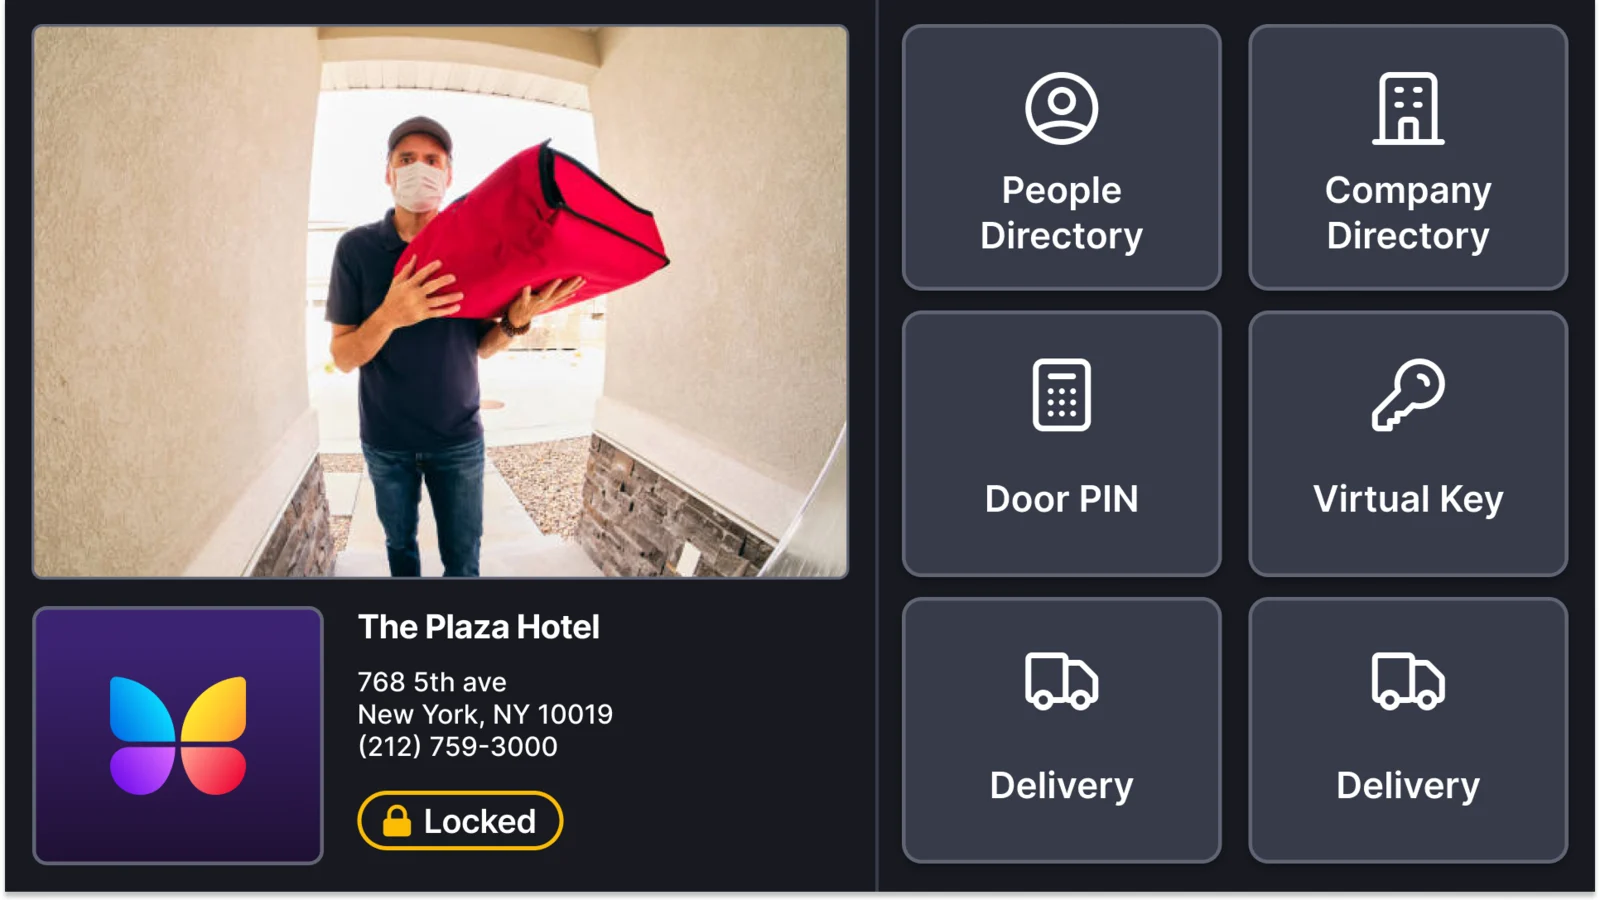
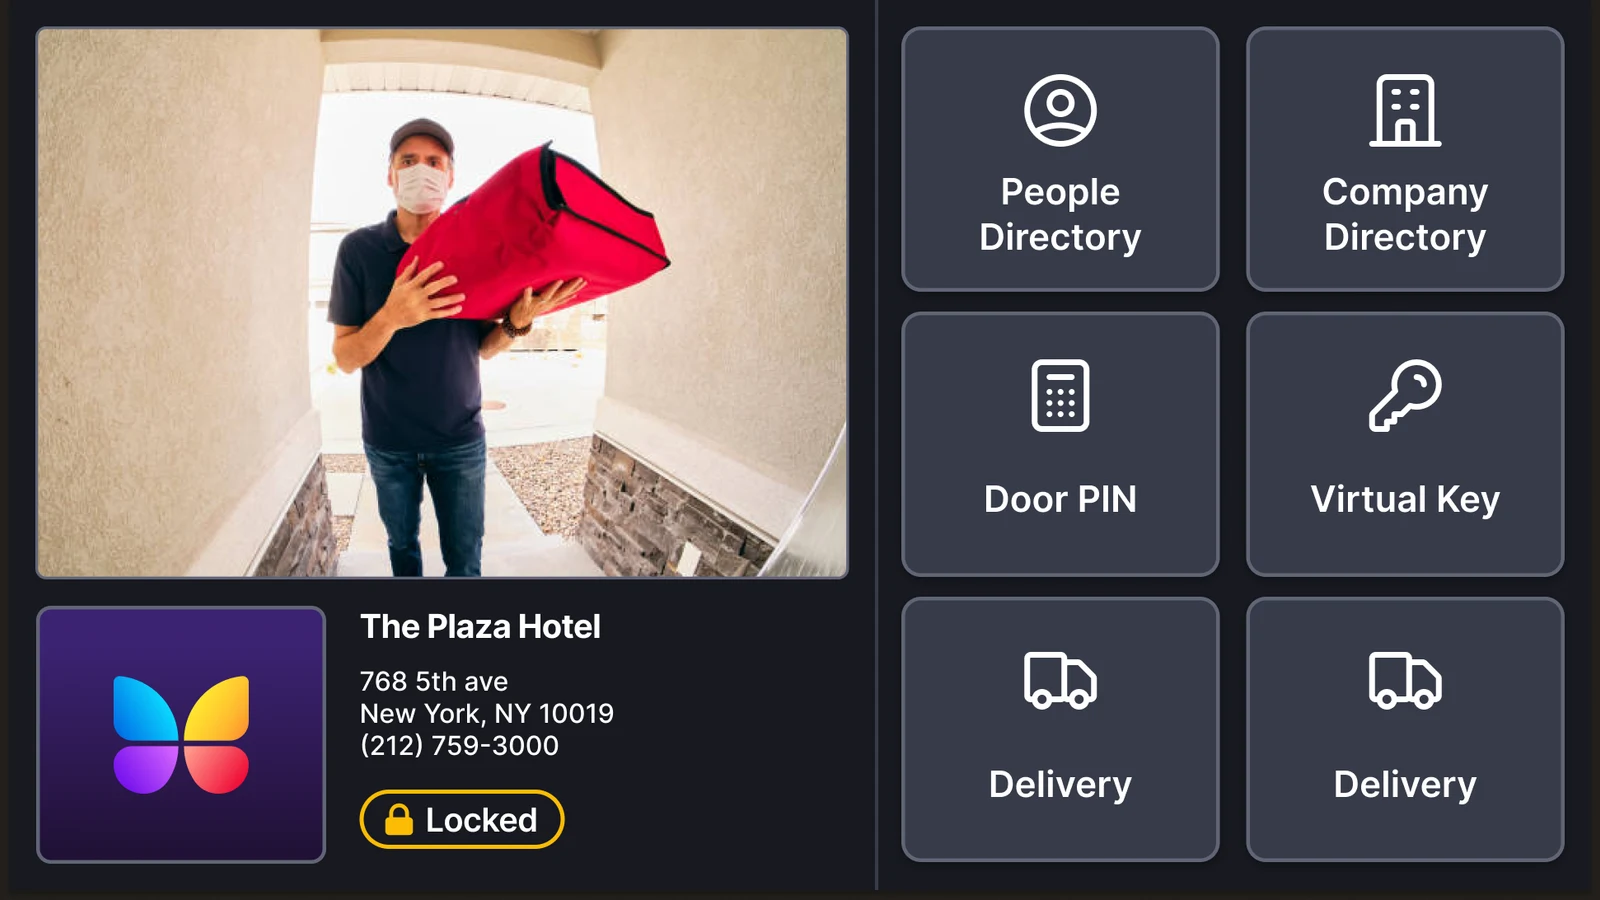
Tiles: whole screen, nothing cropped, no foreign edge
Three problems, three causes.

Cropping: tiles were cut to fill 16:9, which clipped real UI. The access
management tile lost its Actions column because I had cropped 664x348 when the
screen's real bounds in the composite are 719x378+71+34. Every tile is now the
whole screen fitted inside 1600x900 and padded to 16:9 with the page ground, so
nothing is cropped and the padding is invisible.

Foreign edges: .rowmedia carried a 1px border and a light sunken background,
which drew a visible frame around the dark intercom screenshot. Both removed,
along with the hover border-colour rule. Hover is carried by the title colour
and the image opacity lift, which were already there.

Wrong grounds: the access management tile still showed the composite's teal
slide ground and the resident app tile showed the slide's white. Neither could
be cropped away because both screens have rounded corners and soft shadows.
Flood-filled from the four corners instead, which only touches the connected
background and leaves whites inside the screens alone.

Verified by render at 1280: seven tiles all 1600x900 and decoding, computed
border 0px, computed background transparent, no page errors, no overflow.

diff --git a/styles.css b/styles.css
@@ -66,10 +66,13 @@ nav .links a:hover,nav .links a.active{opacity:1;color:var(--accent)}
 .row .org{font-size:var(--font-size-14);line-height:var(--line-height-14);color:var(--muted);margin-top:var(--space-4)}
 .row .desc{display:block;font-size:var(--font-size-14);line-height:var(--line-height-14);color:var(--muted);margin-top:var(--space-12);max-width:52ch}
 /* Index media: one 16:9 frame of real product per row. Sources listed in assets/index/SOURCES.md. */
-.rowmedia{display:block;min-width:0;line-height:0;border:1px solid var(--line);border-radius:var(--radius-sm);overflow:hidden;background:var(--bg-surface-sunken)}
+/* No border and no fill: several tiles are dark screenshots, and a hairline plus a light
+   sunken ground drew an edge around them that is not part of the screen. Tiles are padded
+   to 16:9 with the page ground instead, so nothing is ever cropped and the padding is
+   invisible. */
+.rowmedia{display:block;min-width:0;line-height:0;border-radius:var(--radius-sm);overflow:hidden}
 .rowmedia img{display:block;width:100%;height:auto;aspect-ratio:16/9;object-fit:cover;opacity:.9;transform:scale(1.001);transition:opacity .2s ease-out,transform .35s ease-out}
 .row:hover .rowmedia img,.row:focus-visible .rowmedia img{opacity:1;transform:scale(1.025)}
-.row:hover .rowmedia{border-color:var(--accent)}
 @media(prefers-reduced-motion:reduce){.rowmedia img{transition:none}.row:hover .rowmedia img,.row:focus-visible .rowmedia img{transform:none}}
 .badge{font-size:var(--font-size-11);line-height:var(--line-height-11);letter-spacing:.08em;text-transform:uppercase;border-radius:var(--radius-full);padding:var(--space-4) var(--space-12);white-space:nowrap;font-weight:600}
 .badge.live{color:var(--live);background:var(--live-bg);border:1px solid color-mix(in srgb,var(--live) 35%,transparent)}

diff --git a/assets/index/SOURCES.md b/assets/index/SOURCES.md
@@ -35,6 +35,27 @@ direction. That one is still open pending Tyler's call between `screen-2` (the c
 direction, one clean screen) and `screen-3` (captioned "the shipped experience", but a
 three-screen composite on a coloured ground).
 
+## Tile rule, set 2026-09-16
+Tyler's note: tiles must show the whole screen with nothing cropped, and must carry no white
+ground or edge that is not part of the screen, which read wrong on the dark screenshots.
+
+So every tile is now built the same way: take the whole screen, fit it inside 1600x900, and pad
+to 16:9 with the page ground #221F1B. Nothing is ever cropped, and the padding is invisible
+against the page. `.rowmedia` lost its 1px border and its sunken background for the same
+reason, and the hover border-colour rule went with them; hover is carried by the title colour
+and the image opacity lift.
+
+Two grounds had to be keyed out rather than cropped away, because the screens have rounded
+corners and soft shadows that no inset can clear:
+- access-management: the composite's teal slide ground, flood-filled from the four corners.
+- resident-app: the slide's white ground behind the phones, flood-filled the same way.
+Flood fill from the corners is the right tool here: it only touches the connected background
+region, so whites inside the screens themselves are untouched. A plain colour-replace would
+have eaten them.
+
+Also corrected: the access-management crop was 664x348 and clipped the Actions column. The
+screen's real bounds in the composite are 719x378+71+34, measured, not eyeballed.
+
 ## Figma access, tested 2026-09-16
 The Figma MCP works and is authenticated as Tyler. Node reads and renders succeed, verified
 against `RooatE0eatuWYx9jFxAMX5` node `1363:431` ("Permission Groups page - final", 1920x779,
